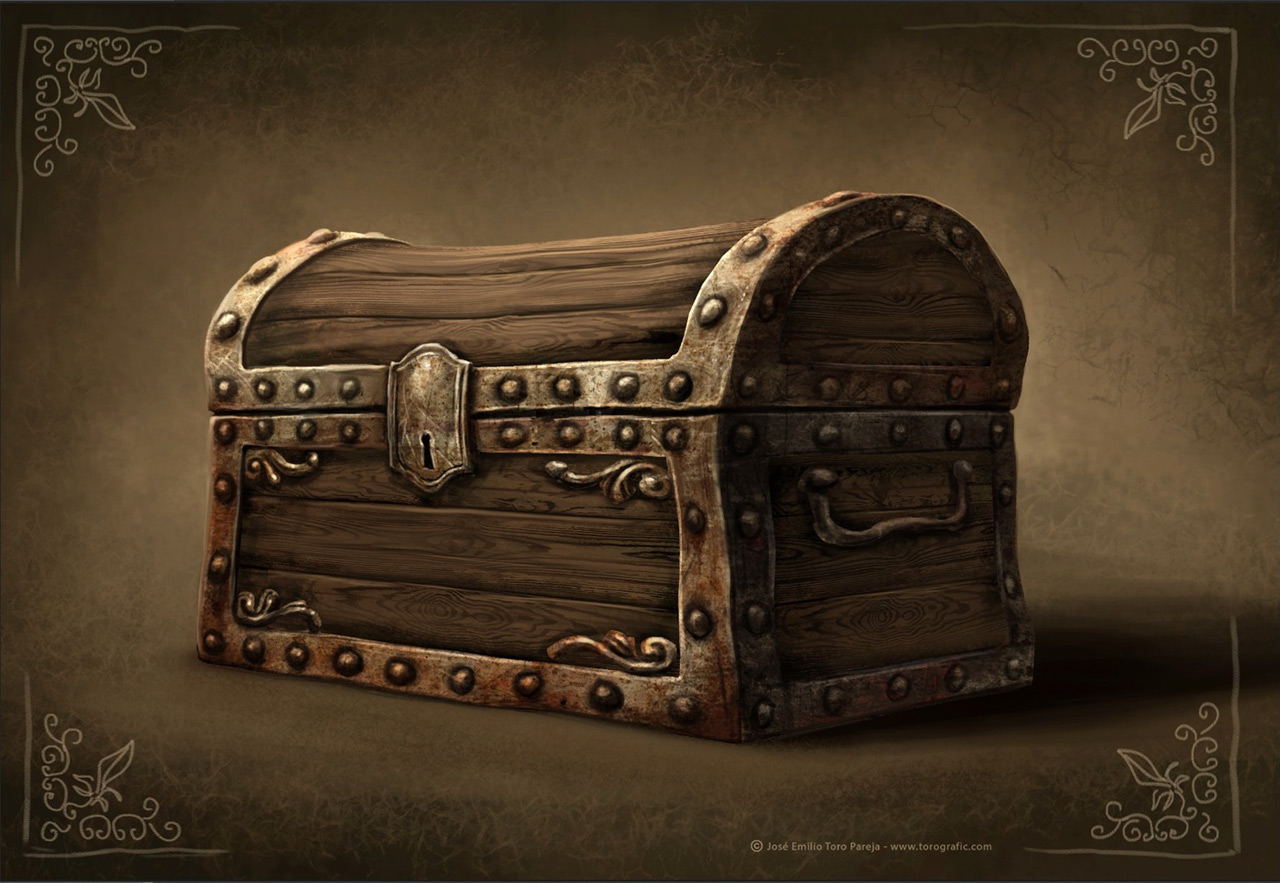
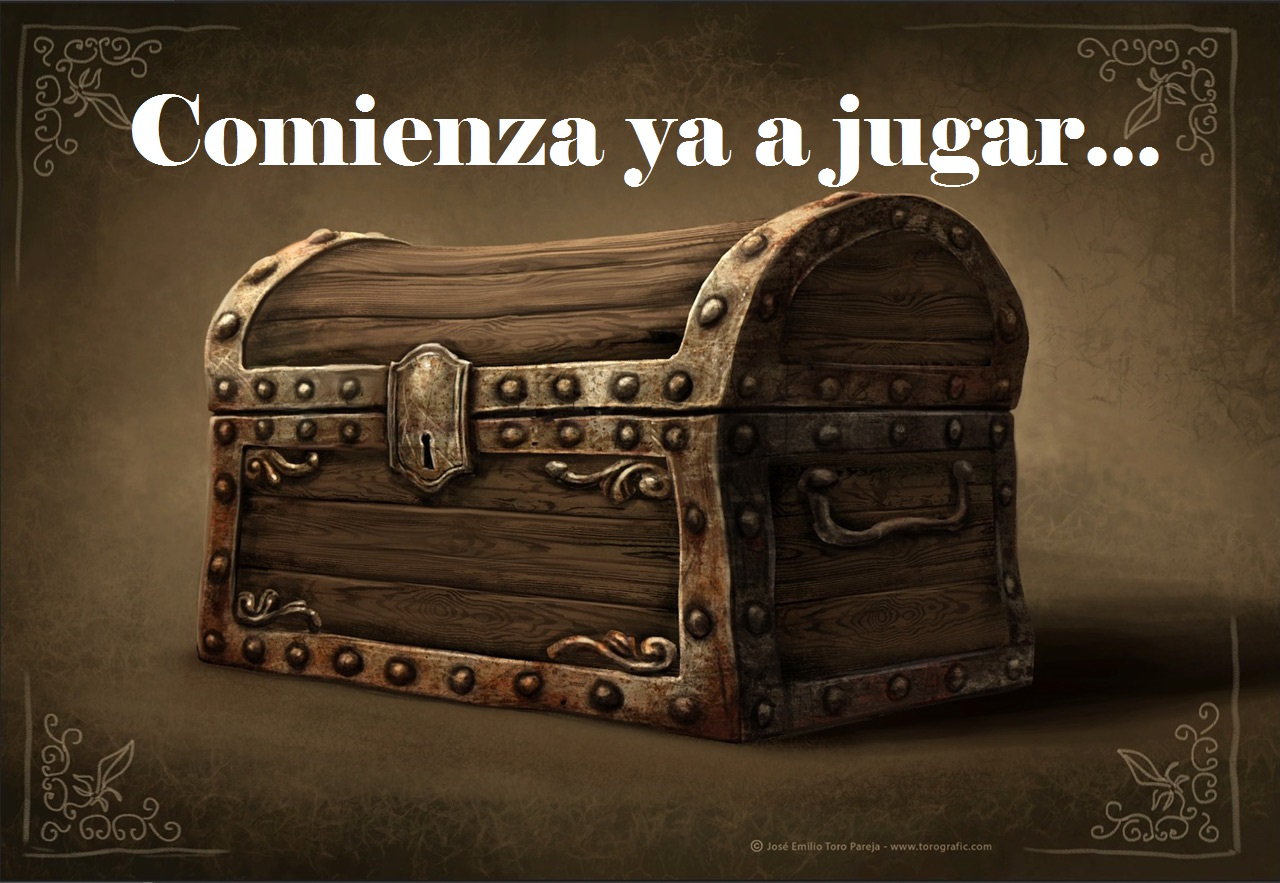
Cambios en demo inicial

Changed region(s): [[0.0938, 0.0917, 0.9062, 0.214]]

diff --git a/2015/tesoro/mapa.html b/2015/tesoro/mapa.html
@@ -3,21 +3,10 @@
     <head>
 	    <meta http-equiv="Content-Type" content="text/html;charset=utf-8" />
         <title>Caza del tesoro</title>
-
-		<link rel="stylesheet" href="jquery.mobile-1.4.2.min.css">
-		<link rel="stylesheet" href="swipe-page.css">
-		<script src="jquery-1.9.0.js"></script>
-		<script src="jquery.mobile-1.4.2.min.js"></script>
-		<script src="swipe-page.js"></script>
-
 	</head>
 	<body>
-		<div data-role="page" id="mapa" class="demo-page" data-dom-cache="true" data-theme="b" data-prev="index" data-next="cofre">
+		<div data-role="page" id="mapa" class="demo-page" data-dom-cache="true" data-theme="b" data-prev="index" data-next="vista_ejemplo">
 		    <div role="main" class="ui-content">
-		        <div id="trivia-mapa" class="trivia ui-content" data-role="popup" data-position-to="window" data-tolerance="50,30,30,30" data-theme="a">
-		            <a href="#" data-rel="back" class="ui-btn ui-btn-right ui-btn-b ui-btn-icon-notext ui-icon-delete ui-corner-all">Close</a>
-		            <p>Descubre todas las posibilidades</p>
-		        </div><!-- /popup -->
 		    </div><!-- /content -->
 		</div>
 	<div id="footer" data-id="footer" data-position="fixed" data-fullscreen="true" data-tap-toggle="false">
@@ -25,8 +14,6 @@
         	<a href="#" class="prev ui-btn ui-btn-icon-notext ui-icon-carat-l">Previous</a>
         	<a href="#" class="next ui-btn ui-btn-icon-notext ui-icon-carat-r">Next</a>
         </div>
-
-		<a href="#trivia-mapa" id="trivia-button" data-rel="popup" class="trivia-btn ui-btn ui-btn-right ui-btn-icon-left ui-icon-info ui-mini ui-corner-all">Info</a>
     </div><!-- /footer -->
 	</body>
 </html>

diff --git a/2015/tesoro/vista_ejemplo.html b/2015/tesoro/vista_ejemplo.html
@@ -5,16 +5,15 @@
         <title>Caza del tesoro</title>
 	</head>
 	<body>
-		<div data-role="page" id="cofre" class="demo-page" data-dom-cache="true" data-theme="b" data-prev="vista_ejemplo">
+		<div data-role="page" id="vista_ejemplo" class="demo-page" data-dom-cache="true" data-theme="b" data-prev="mapa" data-next="cofre">
 		    <div role="main" class="ui-content">
 		    </div><!-- /content -->
 		</div>
 	<div id="footer" data-id="footer" data-position="fixed" data-fullscreen="true" data-tap-toggle="false">
-		<!-- <div data-role="controlgroup" class="control ui-btn-left" data-type="horizontal" data-mini="true"> -->
+		<div data-role="controlgroup" class="control ui-btn-left" data-type="horizontal" data-mini="true">
         	<a href="#" class="prev ui-btn ui-btn-icon-notext ui-icon-carat-l">Previous</a>
         	<a href="#" class="next ui-btn ui-btn-icon-notext ui-icon-carat-r">Next</a>
-        <!-- </div> -->
-		<a href="#" data-rel="back" class="ui-btn ui-shadow ui-corner-all ui-btn-right ui-btn-icon-left ui-btn-inline ui-icon-home">Finalizar</a>
+        </div>
     </div><!-- /footer -->
 	</body>
 </html>

diff --git a/2015/tesoro/index.html b/2015/tesoro/index.html
@@ -45,10 +45,6 @@
 	</div><!-- /header -->
 		<div data-role="page" id="cazatesoro" class="demo-page" data-dom-cache="true" data-theme="b" data-next="mapa">
 		    <div role="main" class="ui-content">
-		        <div id="trivia-cazatesoro" class="trivia ui-content" data-role="popup" data-position-to="window" data-tolerance="50,30,30,30" data-theme="a">
-		            <a href="#" data-rel="back" class="ui-btn ui-btn-right ui-btn-b ui-btn-icon-notext ui-icon-delete ui-corner-all">Close</a>
-		            <p>Bienvenido al juego de la Caza del Tesoro</p>
-		        </div><!-- /popup -->
 		    </div><!-- /content -->
 		</div>
 	<div id="footer" data-id="footer" data-position="fixed" data-fullscreen="true" data-tap-toggle="false">
@@ -57,7 +53,6 @@
         	<a href="#" class="next ui-btn ui-btn-icon-notext ui-icon-carat-r">Next</a>
         </div>
 
-		<a href="#trivia-cazatesoro" id="trivia-button" data-rel="popup" class="trivia-btn ui-btn ui-btn-right ui-btn-icon-left ui-icon-info ui-mini ui-corner-all">Info</a>
     </div><!-- /footer -->
 	</body>
 </html>

diff --git a/2015/tesoro/swipe-page.css b/2015/tesoro/swipe-page.css
@@ -1,6 +1,7 @@
 /* Set the background image sources */
 #cazatesoro { background-image: url("images/cazatesoro.jpg"); }
 #mapa { background-image: url("images/mapa.jpg"); }
+#vista_ejemplo { background-image: url("images/vista-inicial.png"); }
 #cofre { background-image: url("images/cofre.jpg"); }
 
 /* Background settings */
